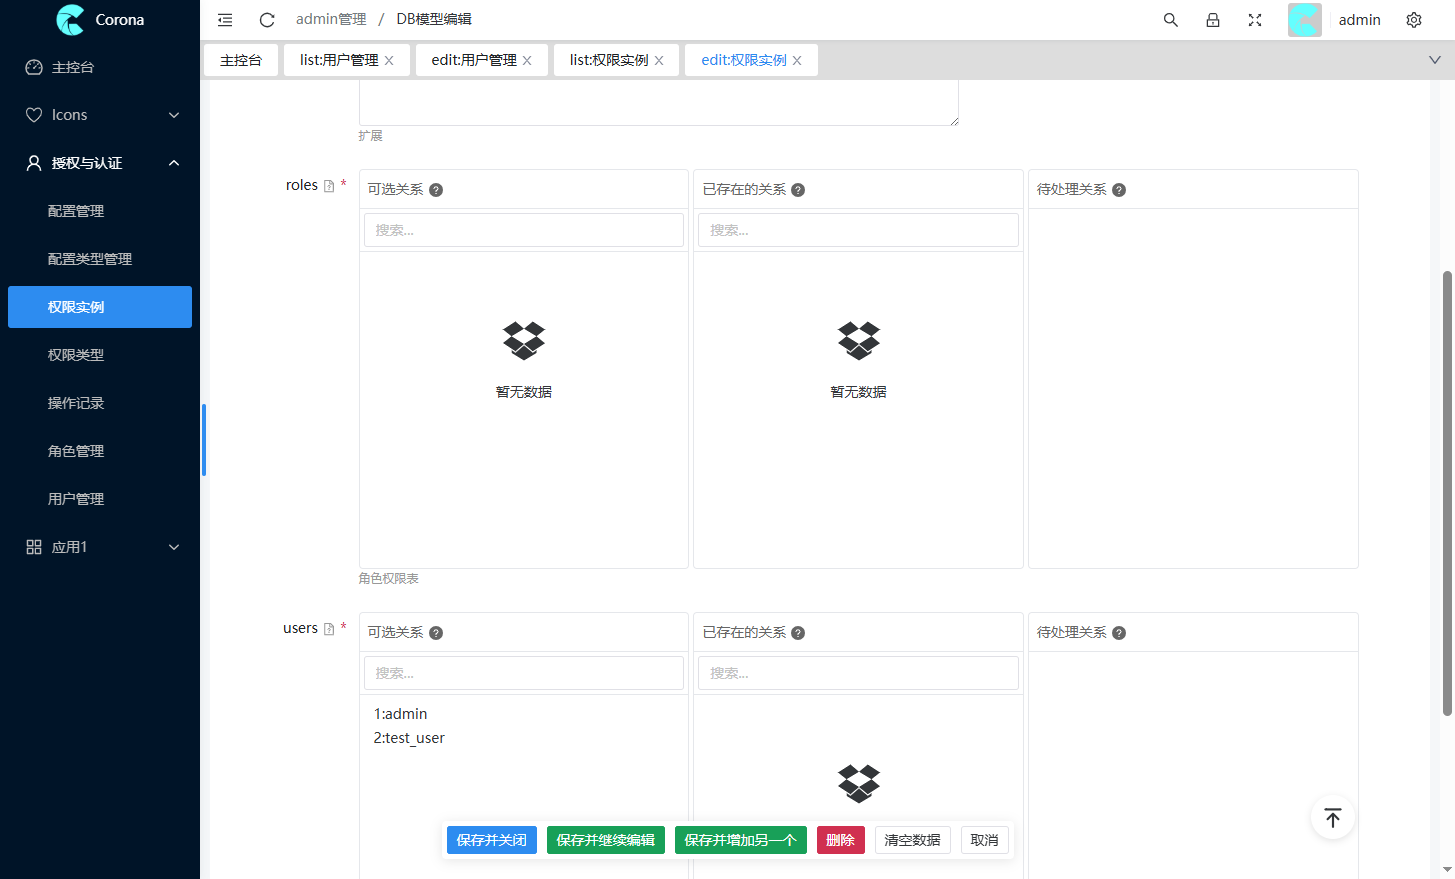
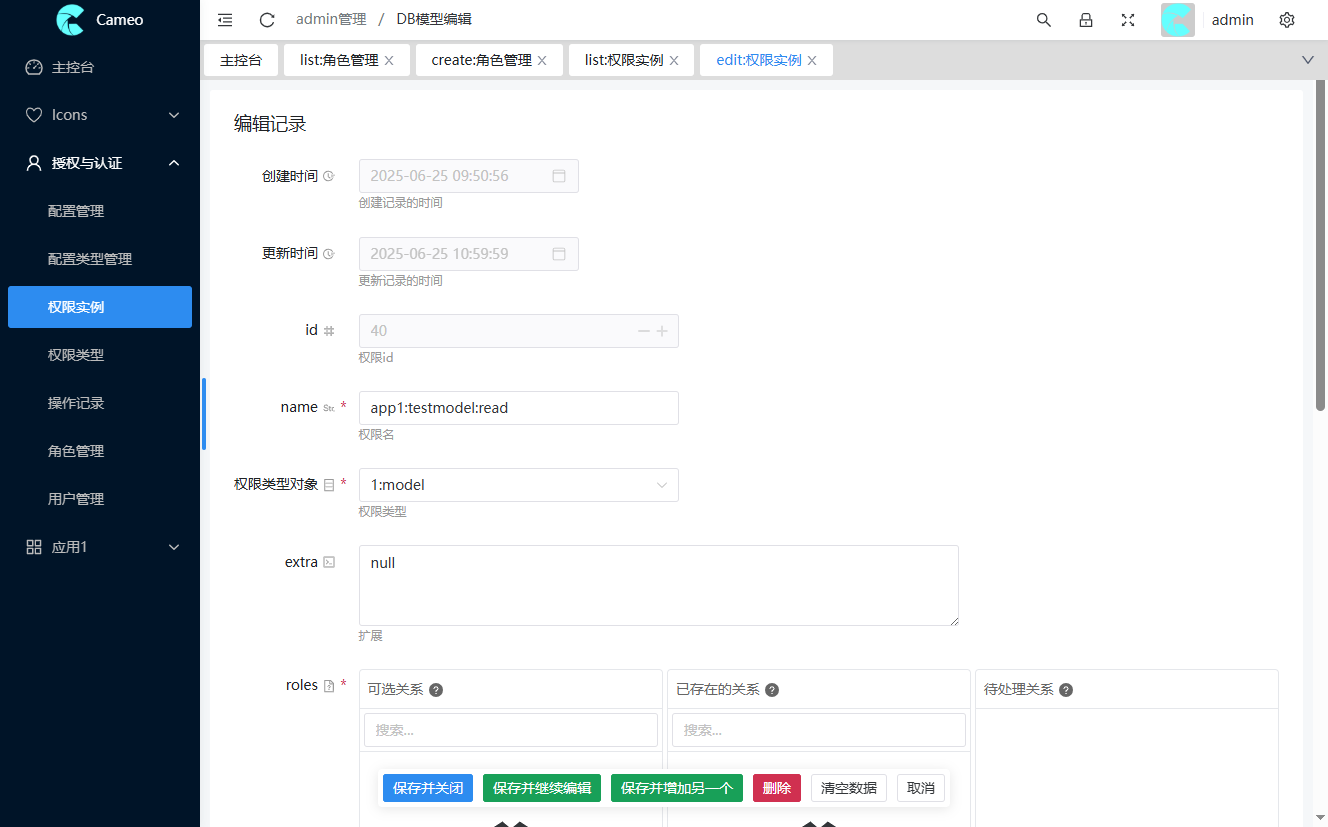
code-optimizations

diff --git a/front/src/config/website.config.ts b/front/src/config/website.config.ts
@@ -2,7 +2,7 @@ import logoImage from '@/assets/images/logo.png';
 import loginImage from '@/assets/images/account-logo.png';
 
 export const websiteConfig = Object.freeze({
-  title: 'Corona',
+  title: 'Cameo',
   logo: logoImage,
   loginImage: loginImage,
   loginDesc: '',

diff --git a/apps/udadmin/utils/logo_letters.py b/apps/udadmin/utils/logo_letters.py
@@ -47,15 +47,15 @@ from . import colorprint as cp
 #    /_\    (_______/
 # """
 logo = r"""
-┏┈┈┈┈┈┈┈┈┈┈┈┈┈┈┈┈┈┈┈┈┈┈┈┈┈┈┈┈┈┈┈┈┈┈┈┈┈┈┈┈┈┈┈┈┈┈┈┈┈┈┈┈┈┈┈┈┈┈┈┈┈┈┈┈┈┈┈┈┈┈┈┈┓
-┊ ┏┈┈┈┈┈┈┈┈┈┈┈┈┈┈┈┈┈┈┈┈┈┈┈┈┈┈┈┈┈┈┈┈┈┈┈┈┈┈┈┈┈┈┈┈┈┈┈┈┈┈┈┈┈┈┈┈┈┈┈┈┈┈┈┈┈┈┈┈┓ ┊
-┊ ┊  .||||||.   .||||||.   .|||||.   .||||||.   .|\   |.      /|\      ┊ ┊
-┊ ┊  ||         ||    ||   ||   ||   ||    ||   ||\\  ||     //'\\     ┊ ┊
-┊ ┊  ||         ||    ||   ||||||'   ||    ||   || \\ ||    //___\\    ┊ ┊
-┊ ┊  ||         ||    ||   || \\     ||    ||   ||  \\||   //¯¯¯¯¯\\   ┊ ┊
-┊ ┊  '||||||'   '||||||'   '|  \\.   '||||||'   '|   \|'  '/       \'  ┊ ┊
-┊ ┗┈┈┈┈┈┈┈┈┈┈┈┈┈┈┈┈┈┈┈┈┈┈┈┈┈┈┈┈┈┈┈┈┈┈┈┈┈┈┈┈┈┈┈┈┈┈┈┈┈┈┈┈┈┈┈┈┈┈┈┈┈┈┈┈┈┈┈┈┛ ┊
-┗┈┈┈┈┈┈┈┈┈┈┈┈┈┈┈┈┈┈┈┈┈┈┈┈┈┈┈┈┈┈┈┈┈┈┈┈┈┈┈┈┈┈┈┈┈┈┈┈┈┈┈┈┈┈┈┈┈┈┈┈┈┈┈┈┈┈┈┈┈┈┈┈┛
+┏┈┈┈┈┈┈┈┈┈┈┈┈┈┈┈┈┈┈┈┈┈┈┈┈┈┈┈┈┈┈┈┈┈┈┈┈┈┈┈┈┈┈┈┈┈┈┈┈┈┈┈┈┈┈┈┈┈┈┈┈┈┈┈┈┈┈┈┓
+┊ ┏┈┈┈┈┈┈┈┈┈┈┈┈┈┈┈┈┈┈┈┈┈┈┈┈┈┈┈┈┈┈┈┈┈┈┈┈┈┈┈┈┈┈┈┈┈┈┈┈┈┈┈┈┈┈┈┈┈┈┈┈┈┈┈┓ ┊
+┊ ┊   .||||||.       /|\       .||||||||.   .||||||.   .||||||.   ┊ ┊
+┊ ┊   ||            //'\\      ||  ||  ||   ||         ||    ||   ┊ ┊
+┊ ┊   ||           //___\\     ||  ||  ||   ||||||     ||    ||   ┊ ┊
+┊ ┊   ||          //¯¯¯¯¯\\    ||  ||  ||   ||         ||    ||   ┊ ┊
+┊ ┊   '||||||'   '/       \'   '|      |'   '||||||'   '||||||'   ┊ ┊
+┊ ┗┈┈┈┈┈┈┈┈┈┈┈┈┈┈┈┈┈┈┈┈┈┈┈┈┈┈┈┈┈┈┈┈┈┈┈┈┈┈┈┈┈┈┈┈┈┈┈┈┈┈┈┈┈┈┈┈┈┈┈┈┈┈┈┛ ┊
+┗┈┈┈┈┈┈┈┈┈┈┈┈┈┈┈┈┈┈┈┈┈┈┈┈┈┈┈┈┈┈┈┈┈┈┈┈┈┈┈┈┈┈┈┈┈┈┈┈┈┈┈┈┈┈┈┈┈┈┈┈┈┈┈┈┈┈┈┛
 """
 # 海洋蓝渐变：
 # colors = {

diff --git a/run.py b/run.py
@@ -5,6 +5,10 @@ from uvicorn.lifespan.on import LifespanOn
 import click
 import sys
 
+# import subprocess
+# import os
+import multiprocessing
+
 # from tools.locate_print import locate_print
 # locate_print("'udadmin:user'")
 
@@ -31,9 +35,24 @@ class UdLifespanOn(LifespanOn):
 
 sys.modules["uvicorn.lifespan.on"].LifespanOn = UdLifespanOn
 
+
+def run_server():
+    uvicorn.run("main:app", host="localhost", port=3014, reload=True)
+
 # 启动应用
 if __name__ == "__main__":
-    uvicorn.run("main:app", host="localhost", port=3014, reload=True)
-    # uvicorn.run("main:app", host="localhost", port=3014)
-    # uvicorn.run("main:app", host="localhost", port=1008)
+    # uvicorn.run("main:app", host="localhost", port=3014, reload=True) # ctrl+c 终止的时候  reloader有时候异常导致不能正常退出，导致服务不能终止
+    # 使用子进程来启动服务
+    server_process = multiprocessing.Process(target=run_server) # 创建子进程绑定uvicorn服务入口
+    server_process.start() # 启动子进程
+    print(f"server PID: {server_process.pid}") # 可读取子进程的pid，可用于后续根据进程id做某些操作
+    
+    try:
+        server_process.join()  # 阻塞主线程，直到子进程结束
+    except KeyboardInterrupt:
+        print("terminate server...")
+        server_process.terminate()  # 发送子进程 SIGTERM(终止信号)
+        server_process.join()
+        print("terminate success")
+
     

diff --git a/apps/udadmin/utils/orm_tools.py b/apps/udadmin/utils/orm_tools.py
@@ -15,7 +15,7 @@ def build_Q_filter(filters, model):
         c = condition
         if c["field"] not in valid_fields:
             raise Exception(
-                f"filter field[{c["field"]}] not in model[{model.__name__}]"
+                f"filter field[{c['field']}] not in model[{model.__name__}]"
             )
         value = c["value"]
         symbol = c["symbol"]
@@ -36,9 +36,9 @@ def build_Q_filter(filters, model):
             "range",
             "not",  # 不等于
         ]:
-            return Q(**{f"{c["field"]}__{symbol}": value})
+            return Q(**{f"{c['field']}__{symbol}": value})
         elif symbol == "eq":
-            return Q(**{f"{c["field"]}": value})
+            return Q(**{f"{c['field']}": value})
         else:
             raise Exception(f"symbol error:[{symbol}] not configured.")
 
@@ -145,7 +145,7 @@ async def get_relation_objs(
 def get_body_class(model):
     fields = model._meta.fetch_fields
     class_prefix = (
-        f"{(model._meta.app or "").capitalize()}{model.__name__.capitalize()}"
+        f"{(model._meta.app or '').capitalize()}{model.__name__.capitalize()}"
     )
     enum_dict = {i: i for i in fields}
     f_enum_cls_name = f"{class_prefix}M2mFieldEnum"

diff --git a/main.py b/main.py
@@ -16,7 +16,7 @@ import time
 from fastapi.middleware.cors import CORSMiddleware
 from apps.udadmin.utils.decorator import timer
 from fastapi.logger import logger
-
+import asyncio
 
 # 上下文管理loggingartup执行yield之前的代码，shutdown执行yield以下的代码
 @asynccontextmanager
@@ -39,8 +39,12 @@ async def lifespan(app: FastAPI):
     print(f"registered models:\n{list(mr.models_info.keys())}")
 
     yield
-    # 销毁fastapi实例后断开数据库连接
-    await Tortoise.close_connections()
+    try:
+        # 销毁fastapi实例后断开数据库连接
+        await Tortoise.close_connections()
+    except Exception as e:
+        print("="*80)
+        print(e)
 
 
 app = FastAPI(
@@ -53,6 +57,7 @@ app = FastAPI(
     redoc_url="/redoc",
     debug=True,
 )
+
 
 # 挂载静态文件
 app.mount("/static", StaticFiles(directory="static", html=True), name="static")

diff --git a/apps/udadmin/utils/doc.py b/apps/udadmin/utils/doc.py
@@ -2,10 +2,10 @@ from . import udtools as ut
 
 tips = (
     "<br>Tips:  \n"
-    f"  1. {ut.font("#",color='#ff0000')}(primary_key), "
-    f"{ut.font("\\*",color='#ff0000')}(required),"
-    f"{ut.font("❶",color='#ff0000')}(read_olny),"
-    f"{ut.font("❷",color='#ff0000')}(has_db_field),  \n"
+    f"  1. {ut.font('#',color='#ff0000')}(primary_key), "
+    f"{ut.font('*',color='#ff0000')}(required),"
+    f"{ut.font('❶',color='#ff0000')}(read_olny),"
+    f"{ut.font('❷',color='#ff0000')}(has_db_field),  \n"
     "  2. [{{pk_tag}}{{required_tag}}{{read_only_tag}}{{db_field_tag}}]"
     "{{__field_name__}}({{__ud_name__}}) "
     "_&lt;{{field_type}}({{sql_type}})&gt;_ __:__ "

diff --git a/apps/udadmin/utils/auth.py b/apps/udadmin/utils/auth.py
@@ -79,7 +79,7 @@ async def get_user(Authorization: Annotated[str, Depends(HTTPBearer())]):
     if not user:
         raise HTTPException(
             status_code=status.HTTP_401_UNAUTHORIZED,
-            detail=f"user:{user_info["username"]} not exists in db",
+            detail=f"user:{user_info['username']} not exists in db",
             headers={"WWW-Authenticate": "Bearer"},
         )
     if user.is_delete:

diff --git a/apps/udadmin/models.py b/apps/udadmin/models.py
@@ -55,7 +55,7 @@ class User(DtBase):
     # username = fields.CharField(max_length=255, unique=True, ud_name='aaa')
     password = fields.CharField(
         max_length=255,
-        description="密码",
+        description="明文输入密码，保存后变成密文。",
         ud_name="密码",
         ud_order=3,
     )

diff --git a/test/dbenv.py b/test/dbenv.py
@@ -1,6 +1,6 @@
 import sys
-sys.path.append('D:\\project\\fastapi_projects\\corona')
-sys.path.append('D:\\workspace\\fastapi\\corona')
+sys.path.append('D:\\project\\fastapi_projects\\cameo')
+sys.path.append('D:\\workspace\\fastapi\\cameo')
 
 from apps.udadmin.utils import monkey_patching
 

diff --git a/README.md b/README.md
@@ -1,11 +1,21 @@
-# Corona
+# Cameo
+<p align="center">
+  <a href="#"><img src="static/images/account-logo.png" alt="FastAPI"></a>
+</p>
+
 
 #### 介绍
-Corona 是一个开源项目，用于帮助开发者快速搭建fastapi项目,并且自带了一个admin应用（前后端分离），参考django-admin设计，使用tortoise-orm作为数据库操作框架，支持多种数据库，支持mysql,sqlite,postgresql,等数据库。实现RBAC权限管理模式。
+cameo是一个开源项目(fastapi-admin/fastapiadmin/fastapi_admin)，用于帮助开发者快速搭建fastapi项目,并且自带了一个admin应用（前后端分离,前端使用vue3的开源框架naive-ui-admin），参考django-admin设计，使用tortoise-orm作为数据库操作框架，支持mysql,sqlite,postgresql等多种数据库，实现RBAC权限管理模式，增删改查api自动生成。
 
-#### 软件架构
-python3.13,Tortoise-orm
+#### 项目地址
+- [__github__ https://github.com/croonyy/cameo](https://github.com/croonyy/cameo)
+- [__gitee__ https://gitee.com/croonyy/cameo](https://gitee.com/croonyy/cameo)
 
+#### 版本依赖
+- __python__ --version:3.13.0
+- __vue3__ 
+- __Node__ -v:v22.14.0
+- __npm__ -version:10.9.2
 
 #### 安装教程
 
@@ -14,61 +24,60 @@ python3.13,Tortoise-orm
 # 事先安装python3.13
 
 # 克隆源码
-git clone https://github.com/
+git clone https://gitee.com/croonyy/cameo.git
 
-# 进入到项目目录
+# 进入到项目目录 cd cameo
 # 安装python环境依赖,如果依赖下载慢，请自行更换pip镜像源
 pip install -r requirements.txt
+# 初始化数据库
+aerich upgrade
+#执行脚本，创建admin用户（密码可后续自行更改），和模型权限
+python init_data.py
 
 # 前端安装
 # 进入到/front目录
 cd front
 pnpm install
 
-# 初始化数据库
-aerich upgrade
-
-#执行脚本，创建admin用户（密码可后续自行更改），和模型权限
-python init_data.py
 
 ```
-### 运行
+#### 运行
 ```bash
-# 1、运行后端
-# 请先激活虚拟环境 conda activate [python_env_name]
-# 进入到项目目录下,如果是python虚拟环境，
+# 1、运行后端服务
+# 如果是python虚拟环境，请先激活虚拟环境 conda activate [python_env_name]
+# 进入到项目目录下，执行
 python run.py
 
-
-# 2、运行前端
+# 2、运行前端服务
 # 进入到前端目录下
 cd front
 pnpm run dev
 
-
 # 3、访问
 # 访问后端接口文档
 http://localhost:3014/udadmin/docs
-
 # 访问前端页面
 http://localhost:1992/
+# 登录账号/密码,预置两个用户，一个管理员和一个普通用户，可自行编辑用户修改密码
+admin/admin
+test_user/123456
 ```
 
 #### 项目图片展示
 ###### 接口文档
-![api_doc](https://github.com/croonyy/corona/blob/main/static/images/api_doc.png)
+![api_doc](static/images/api_doc.png)
 ###### 控制台
-![console](https://github.com/croonyy/corona/blob/main/static/images/console.png)
+![console](static/images/console.png)
 ###### 用户列表
-![user](https://github.com/croonyy/corona/blob/main/static/images/user.png)
+![user](static/images/user.png)
 ###### 编辑用户
-![edit_user](https://github.com/croonyy/corona/blob/main/static/images/edit_user.png)
+![edit_user](static/images/edit_user.png)
 ###### 权限实例
-![permission](https://github.com/croonyy/corona/blob/main/static/images/permission.png)
+![permission](static/images/permission.png)
 ###### 编辑权限
-![edit_permission](https://github.com/croonyy/corona/blob/main/static/images/edit_permission.png)
+![edit_permission](static/images/edit_permission.png)
 ###### 创建角色
-![create_role](https://github.com/croonyy/corona/blob/main/static/images/create_role.png)
+![create_role](static/images/create_role.png)
 
 #### 项目结构
 ```shell
@@ -96,7 +105,6 @@ http://localhost:1992/
 ├── test  # 测试代码
   ├── ...
 ├── tools  # 工具代码
-  ├── __pycache__
   ├── locate_print.py
   ├── objdoc.py
   ├── timer.py
@@ -124,7 +132,7 @@ http://localhost:1992/
 6.  在app1/app.py注册模型和ui
 7.  如果需要开发其他api，可创建view文件夹（推荐），或者自行组织文件结构书写代码
 
-##### 上述步骤结束后，前端会自动生成模型的增删改查页面，管理员可直接看到，其他用户需要定义权限并赋权才看得到，权限格式参考admin应用已有的模型权限
+###### 上述步骤结束后，前端会自动生成模型的增删改查页面，管理员可直接看到，其他用户需要定义权限并赋权才看得到，权限格式参考admin应用已有的模型权限
 
 #### 参与贡献
 
